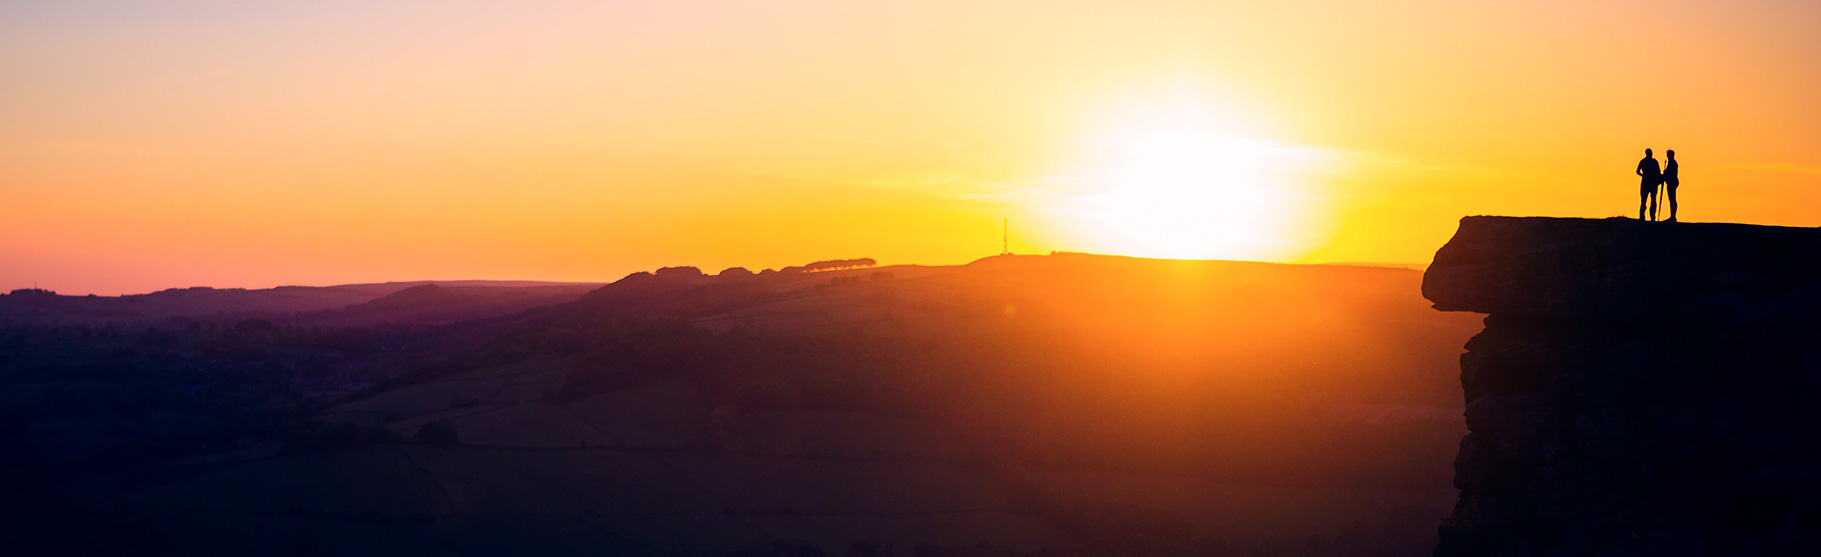
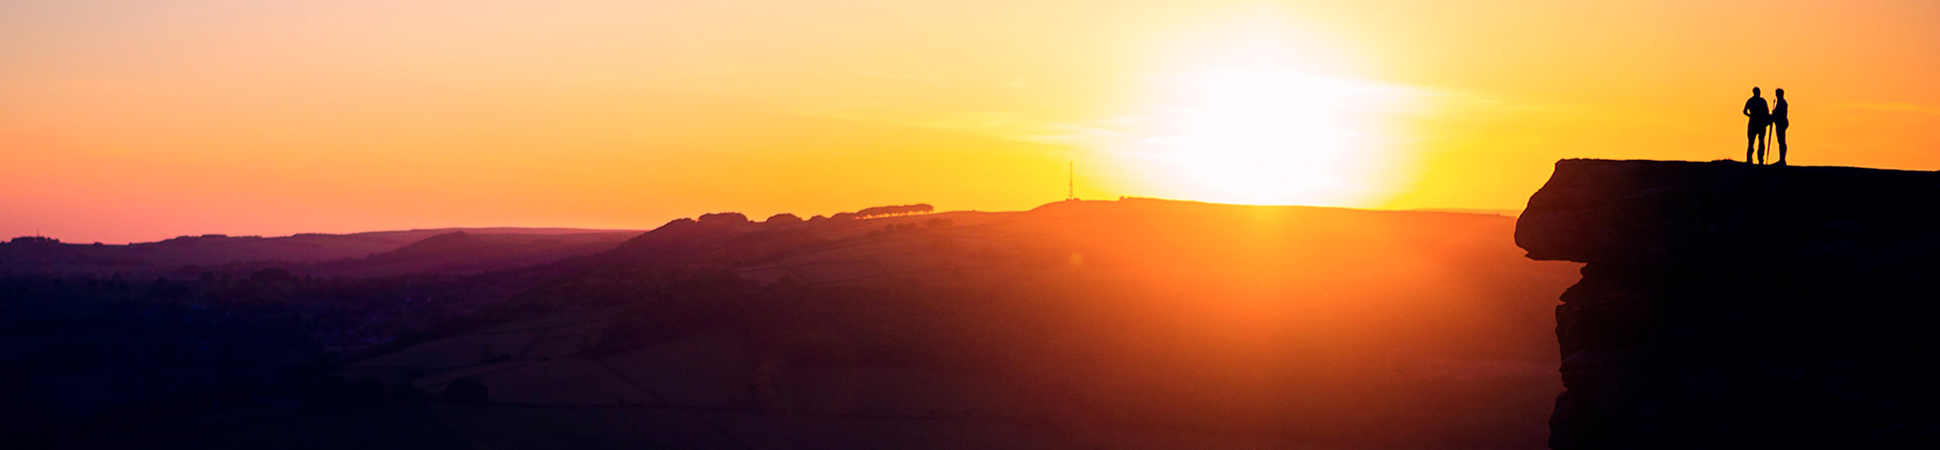
news pages

diff --git a/src/pages/contact/index.js b/src/pages/contact/index.js
@@ -1,108 +1,82 @@
-import React from 'react'
-import { navigate } from 'gatsby-link'
-import Layout from '../../components/Layout'
+import React from "react";
+import { navigate } from "gatsby-link";
+import Layout from "../../components/Layout";
+import FullWidthImage from "../../components/FullWidthImage";
 
 function encode(data) {
   return Object.keys(data)
-    .map((key) => encodeURIComponent(key) + '=' + encodeURIComponent(data[key]))
-    .join('&')
+    .map((key) => encodeURIComponent(key) + "=" + encodeURIComponent(data[key]))
+    .join("&");
 }
 
 export default class Index extends React.Component {
   constructor(props) {
-    super(props)
-    this.state = { isValidated: false }
+    super(props);
+    this.state = { isValidated: false };
   }
 
   handleChange = (e) => {
-    this.setState({ [e.target.name]: e.target.value })
-  }
+    this.setState({ [e.target.name]: e.target.value });
+  };
 
   handleSubmit = (e) => {
-    e.preventDefault()
-    const form = e.target
-    fetch('/', {
-      method: 'POST',
-      headers: { 'Content-Type': 'application/x-www-form-urlencoded' },
+    e.preventDefault();
+    const form = e.target;
+    fetch("/", {
+      method: "POST",
+      headers: { "Content-Type": "application/x-www-form-urlencoded" },
       body: encode({
-        'form-name': form.getAttribute('name'),
+        "form-name": form.getAttribute("name"),
         ...this.state,
       }),
     })
-      .then(() => navigate(form.getAttribute('action')))
-      .catch((error) => alert(error))
-  }
+      .then(() => navigate(form.getAttribute("action")))
+      .catch((error) => alert(error));
+  };
 
   render() {
     return (
       <Layout>
+        <FullWidthImage image={"/img/contact.jpg"} title={"Contact"} />
         <section className="section">
           <div className="container">
             <div className="content">
               <h1>Contact</h1>
-              <form
-                name="contact"
-                method="post"
-                action="/contact/thanks/"
-                data-netlify="true"
-                data-netlify-honeypot="bot-field"
-                onSubmit={this.handleSubmit}
-              >
+              <form name="contact" method="post" action="/contact/thanks/" data-netlify="true" data-netlify-honeypot="bot-field" onSubmit={this.handleSubmit}>
                 {/* The `form-name` hidden field is required to support form submissions without JavaScript */}
                 <input type="hidden" name="form-name" value="contact" />
                 <div hidden>
                   <label>
-                    Don’t fill this out:{' '}
-                    <input name="bot-field" onChange={this.handleChange} />
+                    Ne pas remplir : <input name="bot-field" onChange={this.handleChange} />
                   </label>
                 </div>
                 <div className="field">
-                  <label className="label" htmlFor={'name'}>
-                    Your name
+                  <label className="label" htmlFor={"name"}>
+                    Nom
                   </label>
                   <div className="control">
-                    <input
-                      className="input"
-                      type={'text'}
-                      name={'name'}
-                      onChange={this.handleChange}
-                      id={'name'}
-                      required={true}
-                    />
+                    <input className="input" type={"text"} name={"name"} onChange={this.handleChange} id={"name"} required={true} />
                   </div>
                 </div>
                 <div className="field">
-                  <label className="label" htmlFor={'email'}>
+                  <label className="label" htmlFor={"email"}>
                     Email
                   </label>
                   <div className="control">
-                    <input
-                      className="input"
-                      type={'email'}
-                      name={'email'}
-                      onChange={this.handleChange}
-                      id={'email'}
-                      required={true}
-                    />
+                    <input className="input" type={"email"} name={"email"} onChange={this.handleChange} id={"email"} required={true} />
                   </div>
                 </div>
                 <div className="field">
-                  <label className="label" htmlFor={'message'}>
+                  <label className="label" htmlFor={"message"}>
                     Message
                   </label>
                   <div className="control">
-                    <textarea
-                      className="textarea"
-                      name={'message'}
-                      onChange={this.handleChange}
-                      id={'message'}
-                      required={true}
-                    />
+                    <textarea className="textarea" name={"message"} onChange={this.handleChange} id={"message"} required={true} />
                   </div>
                 </div>
                 <div className="field">
                   <button className="button is-link" type="submit">
-                    Send
+                    Envoyer
                   </button>
                 </div>
               </form>
@@ -110,6 +84,6 @@ export default class Index extends React.Component {
           </div>
         </section>
       </Layout>
-    )
+    );
   }
 }

diff --git a/src/pages/actualites/index.js b/src/pages/actualites/index.js
@@ -2,17 +2,19 @@ import React from "react";
 
 import Layout from "../../components/Layout";
 import BlogRoll from "../../components/BlogRoll";
+import FullWidthImage from "../../components/FullWidthImage";
 
 export default class BlogIndexPage extends React.Component {
   render() {
     return (
       <Layout>
+        <FullWidthImage image={"/img/actualites.jpg"} title={"Actualités"} />
         <section className="section section--gradient">
           <div className="container">
             <div className="columns">
               <div className="column is-10 is-offset-1">
                 <div className="section">
-                  <h1 className="title">Actualités</h1>
+                  <h2 className="title">Derniers articles</h2>
                   <BlogRoll limit={21} />
                 </div>
               </div>

diff --git a/src/templates/default-page.js b/src/templates/default-page.js
@@ -12,12 +12,13 @@ export const DefaultPageTemplate = ({ image, content, contentComponent, title, s
   return (
     <div className="content">
       {helmet || ""}
-      <FullWidthImage image={image} title={title} subtitle={subtitle} />
+      {image && <FullWidthImage image={image} title={title} subtitle={subtitle} />}
       <section className="section section--gradient">
         <div className="container">
           <div className="section">
             <div className="columns">
               <div className="column is-7 is-offset-1">
+                {!image && <h1>{title}</h1>}
                 <HtmlContent content={content} />
               </div>
             </div>

diff --git a/src/components/all.sass b/src/components/all.sass
@@ -70,13 +70,13 @@ body > :last-child
   align-items: center
 
 .full-width-text
-  color: white!important
   padding: 1rem
   position: absolute
   margin: 0!important
   text-align: center
 
 .full-width-text-title
+  color: #fff!important
   background-color: rgba(255, 175, 64, 0.7)
   padding: 0.3em!important
   margin: 0.1em!important

diff --git a/src/pages/association/index.md b/src/pages/association/index.md
@@ -3,7 +3,7 @@ path: /association
 templateKey: default-page
 title: "L'association"
 subtitle: "Amélie la vie"
-image: /img/colibriheader.jpg
+image: /img/hope.jpg
 description: Présentation de l'association Amélie la Vie
 ---
 

diff --git a/src/pages/nous-soutenir/index.md b/src/pages/nous-soutenir/index.md
@@ -1,0 +1,15 @@
+---
+path: /nous-soutenir
+templateKey: default-page
+title: "Nous soutenir"
+image: /img/help.jpg
+description: Soutenir l'association Amélie la vie
+---
+
+### ..
+
+...
+
+..
+
+.

diff --git a/src/pages/mentions-legales/index.md b/src/pages/mentions-legales/index.md
@@ -1,0 +1,14 @@
+---
+path: /mentions-legales
+templateKey: default-page
+title: "Mentions légales"
+description: Mentions légales de l'association Amélie la vie
+---
+
+### ..
+
+...
+
+..
+
+.
